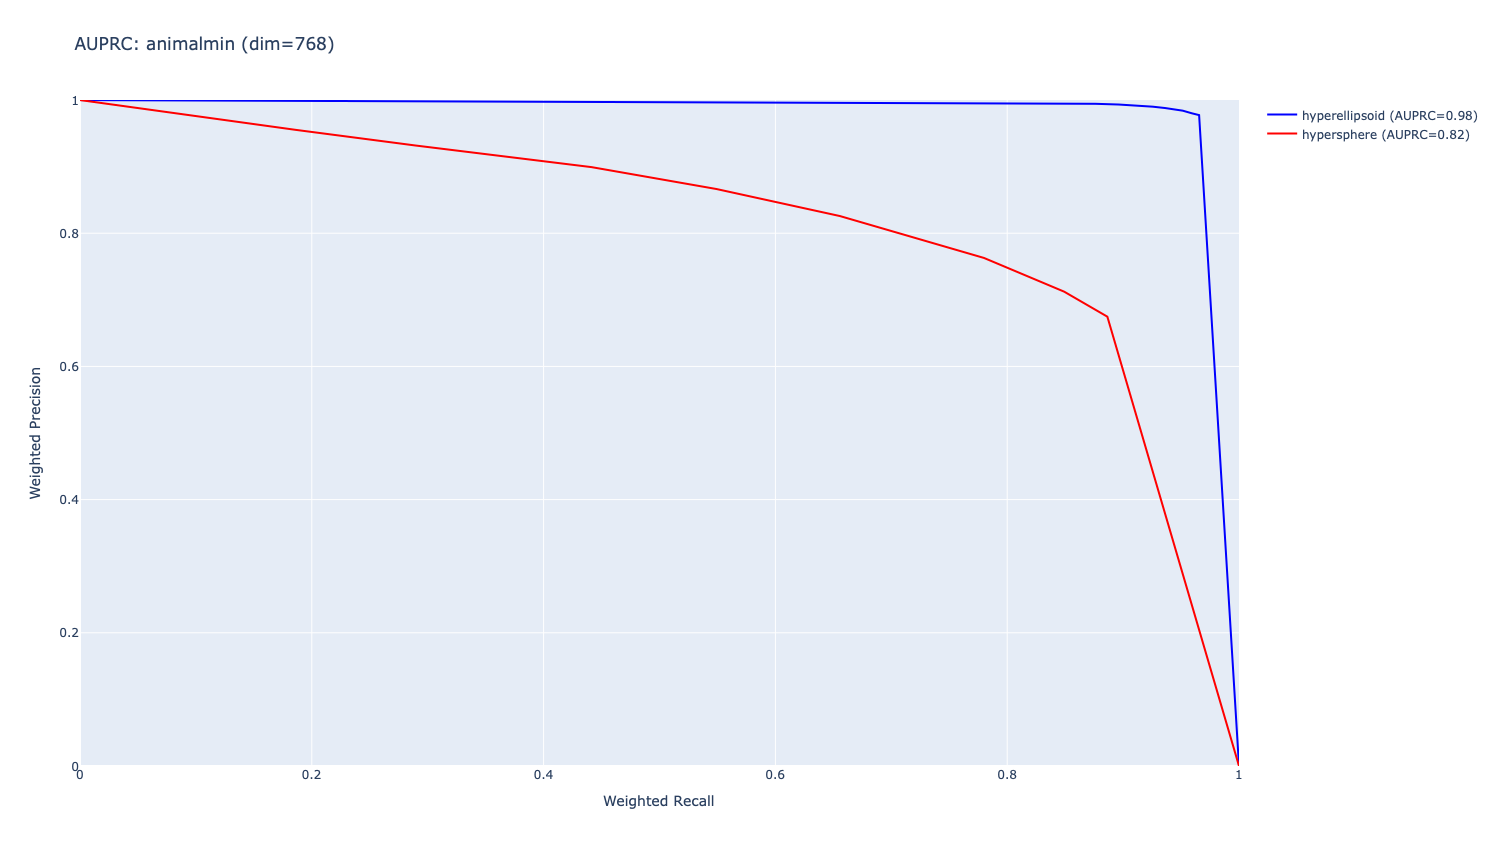
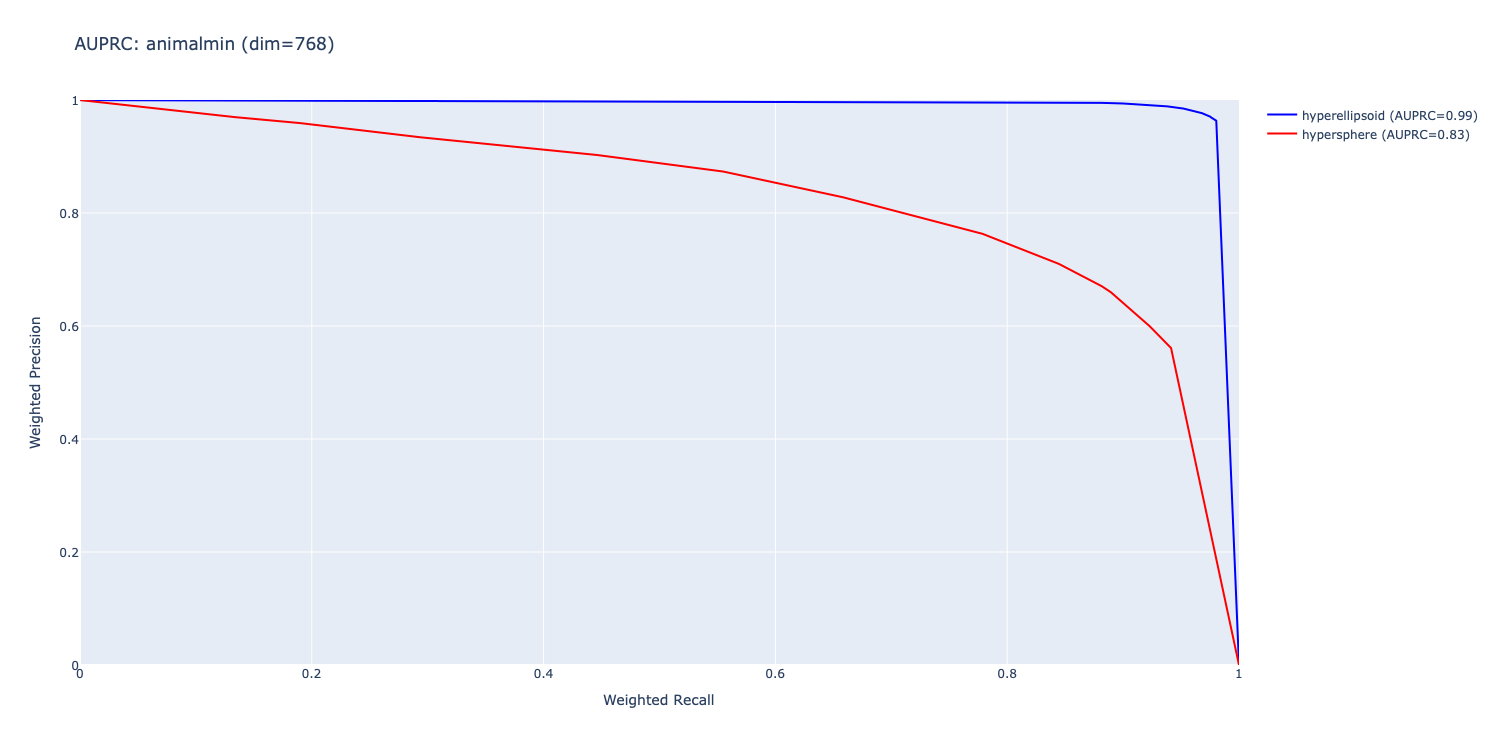
more granular auprc

diff --git a/auprc.py b/auprc.py
@@ -65,7 +65,7 @@ def pr_curve_area(recalls: list[float], precisions: list[float]) -> float:
 
 def auprc(
     shape: Literal["hyperellipsoid", "hypersphere"],
-    tree_name: str = "mammal",
+    tree_name: str = "mammalmin",
     dimension: int = 128,
     confidence: float = 0.95,
 ) -> list[SubtreeResult]:
@@ -133,7 +133,21 @@ def print_results(results: list[SubtreeResult], top: int = 10) -> None:
 
 def graph(tree_name: str, dimension: int) -> go.Figure:
     """Plot precision-recall curve sweeping confidence for each shape."""
-    confidence_levels = [0.01, 0.03, 0.1, 0.3, 0.5, 0.7, 0.9, 0.97, 0.99]
+    confidence_levels = [
+        0.01,
+        0.03,
+        0.1,
+        0.3,
+        0.5,
+        0.7,
+        0.9,
+        0.97,
+        0.99,
+        0.993,
+        0.999,
+        0.9993,
+        0.9999,
+    ]
     shapes_and_colors = [
         ("hyperellipsoid", "blue"),
         ("hypersphere", "red"),

diff --git a/tests/test_auprc.py b/tests/test_auprc.py
@@ -114,7 +114,7 @@ class TestAuprc:
         """Omitting tree_name/dimension/confidence uses defaults."""
         auprc("hyperellipsoid")
 
-        mock_build_named_tree.assert_called_once_with("mammal")
+        mock_build_named_tree.assert_called_once_with("mammalmin")
         mock_get_embeddings.assert_called_once_with(tree.root.concepts(), dimension=128)
 
     def test_confidence_passed_to_fit(

diff --git a/README.md b/README.md
@@ -37,9 +37,9 @@ Some candidate geometries are:
 
 ### Precision & Recall
 
-<img src="figures/auprc.png" alt="AUPRC" width="75%">
+<img src="figures/auprc.png" alt="AUPRC" width="100s%">
 
-The AUPRC curve measures one-vs-rest classification quality across subtrees of a WordNet hypernym tree when building a hypersphere/ellipsoid over text embeddings of the nodes. It sweeps the confidence threshold to trace a precision-recall curve. Hyperellipsoid (0.98) strongly outperforms hypersphere (0.82), maintaining near-perfect precision across most recall levels.
+The AUPRC curve measures one-vs-rest classification quality across subtrees of a WordNet hypernym tree when building a hypersphere/ellipsoid over text embeddings of the nodes. It sweeps the confidence threshold to trace a precision-recall curve. Hyperellipsoid (0.99) strongly outperforms hypersphere (0.83), maintaining near-perfect precision across most recall levels.
 
 The shapes are built with all points of the class (to test precision and recall). Generalization to unseen points of the same class is not tested.
 
